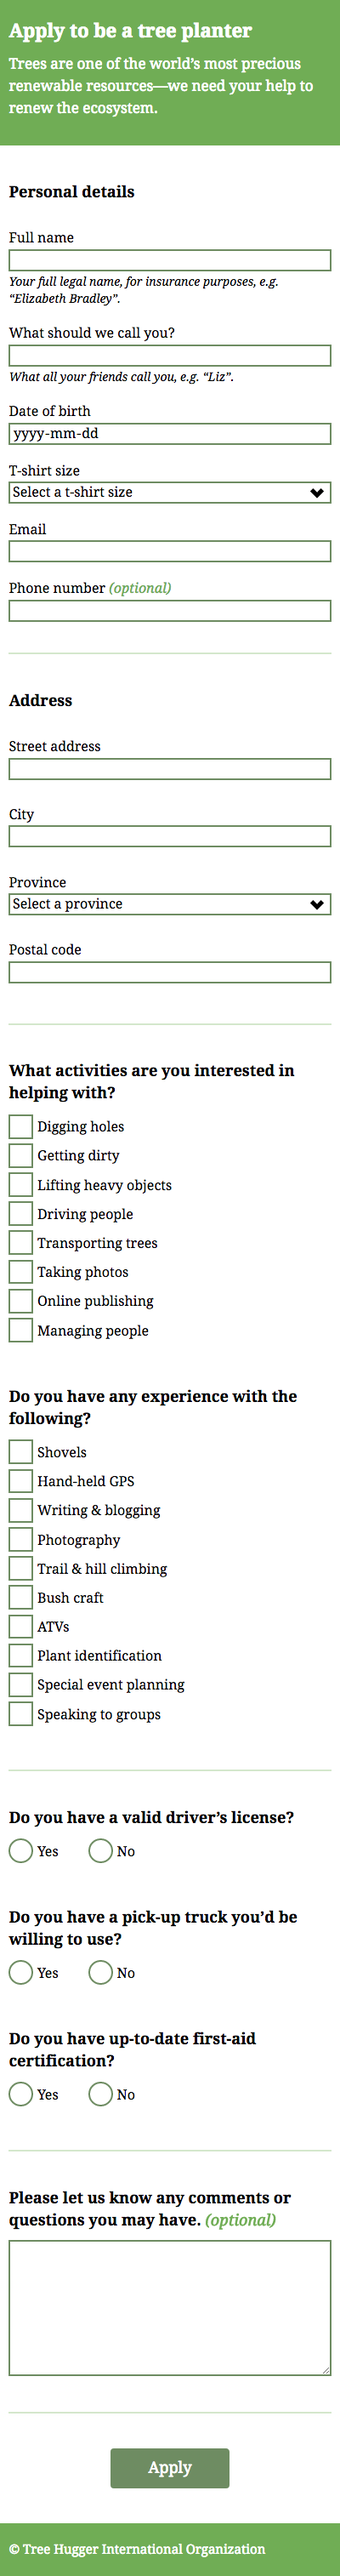
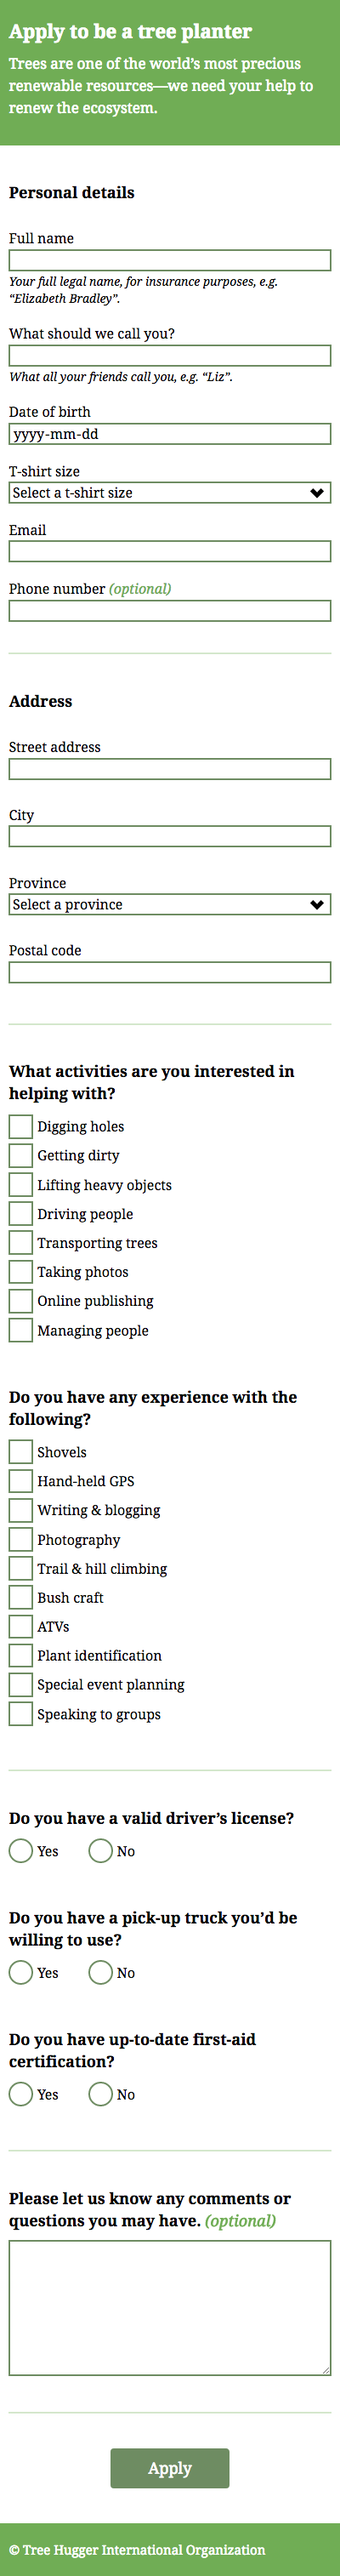
Swap Droid for Noto because Droid has been removed from Google Fonts

diff --git a/README.md b/README.md
@@ -20,7 +20,7 @@ deliverables: '1 HTML file, 4 CSS files, images'
 
 ## Details
 
-- *Typefaces:* `Droid Serif`
+- *Typefaces:* `Noto Serif`
 - *Colours:* `#fff`, `#6e8c62`, `#70ad55`
 - *Gridifier settings:* defaults
 - *Typografier settings:* defaults
